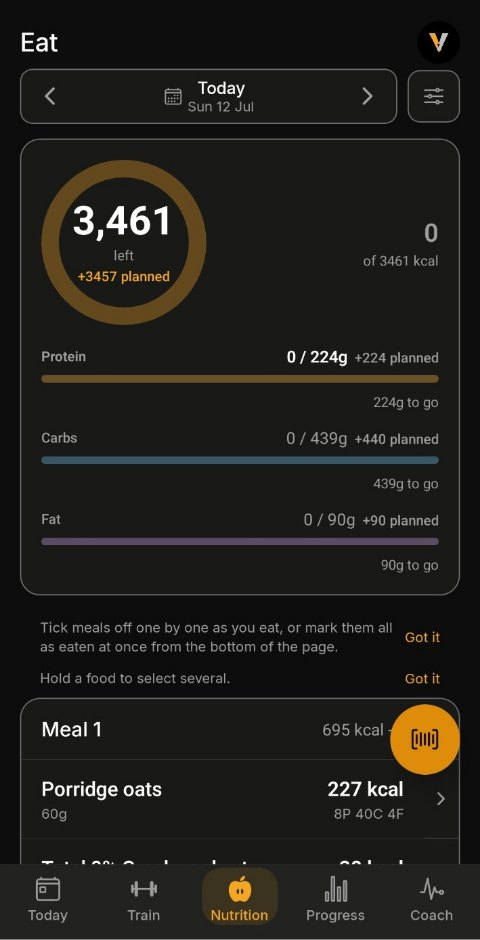
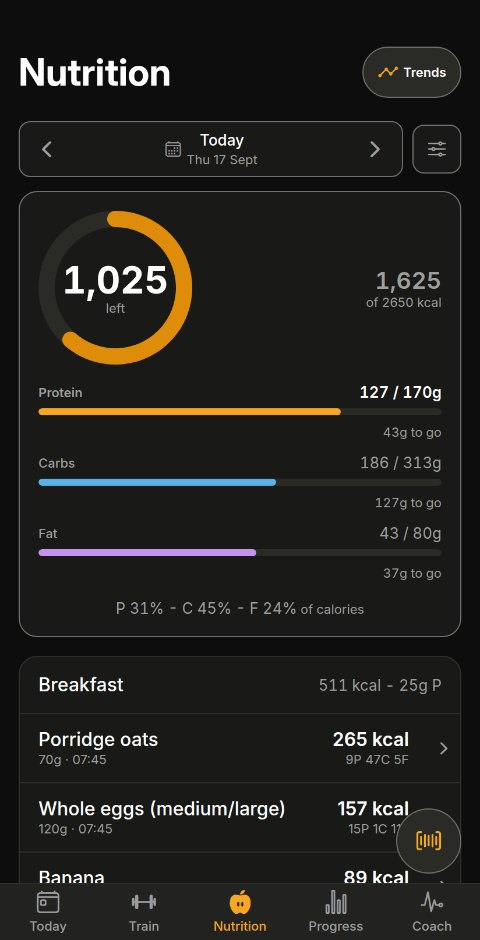
Welcome: render the product captures from the current app
The Welcome screen's three captures were July store screenshots showing
screens the app no longer has (the old workout logger, the Eat tab). The
founder confirmed they were rendered, not taken by hand, so the
paper-render harness now makes them on every run: Today, a set being
logged and Nutrition for the seeded demo persona, one phone screen each
with the real tab bar, on a clean account (the one-time offers dismissed
through the keys their own buttons write), encoded at the assets' size.
Skia paths are now recorded by the harness's mock and drawn as SVG, so
the calorie ring renders as the app draws it, and the seeded meals carry
meal-time timestamps. Register D211.

diff --git a/scripts/paper-render/welcome.js b/scripts/paper-render/welcome.js
@@ -1,0 +1,87 @@
+/**
+ * welcome.js -- the Welcome screen's three product captures (register D145:
+ * Today, a set being logged, the day's nutrition), rendered from the current
+ * app. Founder, 2026-09-26: the captures were rendered by Claude Code, not
+ * taken by hand, so they are regenerated here whenever the app changes.
+ *
+ * paper-render.test.js's Welcome pass writes one phone-sized HTML page per
+ * capture (REPORT.welcome in report-data.json). This step shoots each at 412
+ * CSS pixels wide and twice the density with headless Chromium (as shoot.js
+ * does), scales it to the Welcome assets' own size, and encodes it as JPEG
+ * with CanvasKit (the library the share-card renderer already runs), into
+ * `<out>/welcome/{today,workout,nutrition}.jpg`. It never writes into
+ * assets/: replacing assets/welcome/*.jpg is a reviewed step of its own.
+ *
+ * Plain Node, no Jest; run by run.sh after shoot.js.
+ */
+const fs = require('node:fs');
+const path = require('node:path');
+const { spawnSync } = require('node:child_process');
+
+const REPO_ROOT = path.resolve(__dirname, '..', '..');
+const SCRATCH = process.env.PAPER_RENDER_SCRATCH
+  || '/tmp/claude-0/-home-user-ADPhysique/d71ddd7a-c7b0-5d8f-8ef8-fbac54ce6084/scratchpad';
+const WORK_DIR = path.join(SCRATCH, 'paper-render-work');
+const REPORT_JSON = path.join(WORK_DIR, 'report-data.json');
+const OUT_DIR = path.join(process.env.PAPER_RENDER_OUT_DIR || path.join(SCRATCH, 'paper-renders'), 'welcome');
+const CHROME = process.env.PAPER_RENDER_CHROME
+  || '/opt/pw-browsers/chromium-1194/chrome-linux/chrome';
+
+// The Welcome assets' own size (src/screens/WelcomeScreen.js SHOTS).
+const WIDTH = 480;
+const HEIGHT = 940;
+const JPEG_QUALITY = 86;
+// Headless Chromium leaves the bottom of the window unpainted (about 86 CSS
+// pixels in practice), so the window is shot taller than the phone and the
+// phone's own height is cropped from the top.
+const WINDOW_SLACK_CSS = 200;
+const DEVICE_SCALE = 2;
+
+async function main() {
+  const report = JSON.parse(fs.readFileSync(REPORT_JSON, 'utf8'));
+  const captures = Array.isArray(report.welcome) ? report.welcome : [];
+  if (!captures.length) {
+    console.log('[paper-render:welcome] no Welcome pass in the report; nothing to do');
+    return;
+  }
+  fs.mkdirSync(OUT_DIR, { recursive: true });
+
+  const ckDir = path.dirname(require.resolve('canvaskit-wasm/package.json', { paths: [REPO_ROOT] }));
+  // eslint-disable-next-line global-require, import/no-dynamic-require
+  const CK = await require(path.join(ckDir, 'bin/full/canvaskit.js'))({ locateFile: (f) => path.join(ckDir, 'bin/full', f) });
+
+  for (const capture of captures) {
+    if (!capture.mounted || !capture.htmlPath || !fs.existsSync(capture.htmlPath)) {
+      console.log(`[paper-render:welcome] SKIP ${capture.file}: ${capture.error || 'not mounted'}`);
+      continue;
+    }
+    const png = path.join(OUT_DIR, `${capture.file}-raw.png`);
+    try { fs.unlinkSync(png); } catch (_) { /* none yet */ }
+    const res = spawnSync(CHROME, [
+      '--headless=new', '--no-sandbox', '--disable-gpu', '--hide-scrollbars', '--allow-file-access-from-files',
+      `--force-device-scale-factor=${DEVICE_SCALE}`, `--window-size=412,${capture.cssHeight + WINDOW_SLACK_CSS}`, `--screenshot=${png}`,
+      `file://${capture.htmlPath}`,
+    ], { timeout: 30000, encoding: 'utf8' });
+    if (!fs.existsSync(png)) {
+      console.log(`[paper-render:welcome] FAIL ${capture.file}: chromium exit ${res.status}`);
+      continue;
+    }
+    const image = CK.MakeImageFromEncoded(fs.readFileSync(png));
+    const cropHeight = Math.min(image.height(), capture.cssHeight * DEVICE_SCALE);
+    const surface = CK.MakeSurface(WIDTH, HEIGHT);
+    const paint = new CK.Paint();
+    paint.setAntiAlias(true);
+    surface.getCanvas().drawImageRectOptions(
+      image, CK.XYWHRect(0, 0, image.width(), cropHeight), CK.XYWHRect(0, 0, WIDTH, HEIGHT),
+      CK.FilterMode.Linear, CK.MipmapMode.Linear, paint,
+    );
+    const jpg = surface.makeImageSnapshot().encodeToBytes(CK.ImageFormat.JPEG, JPEG_QUALITY);
+    fs.writeFileSync(path.join(OUT_DIR, `${capture.file}.jpg`), Buffer.from(jpg));
+    console.log(`[paper-render:welcome] OK   ${capture.file}.jpg  (${image.width()}x${cropHeight} -> ${WIDTH}x${HEIGHT}, ${jpg.length} bytes)`);
+  }
+}
+
+main().catch((e) => {
+  console.error('[paper-render:welcome] failed:', e);
+  process.exit(1);
+});

diff --git a/scripts/paper-render/treeToHtml.js b/scripts/paper-render/treeToHtml.js
@@ -403,6 +403,49 @@ function renderSvgNode(node, ctx) {
   return `<${svgTag} ${attrs.join(' ')}>${inner}</${svgTag}>`;
 }
 
+// A react-native-skia Canvas. mockPreamble.js makes each Skia path record the
+// commands the app drew it with, so its Paths draw here as the same shapes in
+// SVG (the calorie ring reads as the ring). A path handed over as a shared
+// value (useDerivedValue) is read through its `.value`.
+function skiaPathData(p) {
+  const path = p && typeof p === 'object' && p.value && typeof p.value.toSVGString === 'function' ? p.value : p;
+  return path && typeof path.toSVGString === 'function' ? path.toSVGString() : '';
+}
+
+function renderSkiaCanvas(node, ctx) {
+  const style = flattenStyle(node.props.style);
+  const w = Number(style.width) || 0;
+  const h = Number(style.height) || 0;
+  const parts = [];
+  const walk = (children) => {
+    const arr = Array.isArray(children) ? children : (children ? [children] : []);
+    for (const c of arr) {
+      if (!c || typeof c !== 'object') continue;
+      if (c.type !== 'Path') {
+        bumpStat(ctx, 'unknownTypes', `Skia:${c.type}`);
+        walk(c.children);
+        continue;
+      }
+      const d = skiaPathData(c.props.path);
+      if (!d) continue;
+      const colour = escapeHtml(c.props.color || '#000000');
+      const attrs = [`d="${escapeHtml(d)}"`];
+      if (c.props.style === 'stroke') {
+        attrs.push('fill="none"', `stroke="${colour}"`, `stroke-width="${Number(c.props.strokeWidth) || 1}"`);
+        if (c.props.strokeCap) attrs.push(`stroke-linecap="${escapeHtml(c.props.strokeCap)}"`);
+        if (c.props.strokeJoin) attrs.push(`stroke-linejoin="${escapeHtml(c.props.strokeJoin)}"`);
+      } else {
+        attrs.push(`fill="${colour}"`);
+      }
+      if (c.props.opacity !== undefined && c.props.opacity !== null) attrs.push(`opacity="${Number(c.props.opacity)}"`);
+      parts.push(`<path ${attrs.join(' ')}/>`);
+    }
+  };
+  walk(node.children);
+  const css = mapContainerCss(style);
+  return `<div style="${cssToString(css)}"><svg xmlns="http://www.w3.org/2000/svg" width="${w}" height="${h}" viewBox="0 0 ${w} ${h}" style="display:block;overflow:visible">${parts.join('')}</svg></div>`;
+}
+
 function renderUnknown(node, ctx) {
   bumpStat(ctx, 'unknownTypes', node.type);
   const style = mapContainerCss(flattenStyle(node.props.style));
@@ -417,6 +460,8 @@ function renderNode(node, ctx, forceInlineText) {
   const { type } = node;
 
   if (HIDDEN_TYPES.has(type)) return '';
+
+  if (type === 'Canvas') return renderSkiaCanvas(node, ctx);
 
   if (isModalLike(node)) {
     if (!node.props.visible) return '';
@@ -579,6 +624,12 @@ function estimateNode(node, availWidth) {
  *   name in FONT_FACES is always registered. Reserved for future faces.
  * @param {string} [opts.repoRoot]
  * @param {number} [opts.foldY] - default 915.
+ * @param {{height:number}} [opts.phone] - lay the page out as one phone
+ *   screen of this CSS height instead of the full scroll: the screen fills
+ *   the height (its own flex does the rest, so a pinned footer sits at the
+ *   bottom and a scroll view clips), anything rendered after it (the tab
+ *   bar) keeps its natural height at the foot, and the fold line is not
+ *   drawn. Used for the Welcome screen's product captures (welcome.js).
  * @returns {{ html: string, stats: { unknownTypes: object, converterFallbacks: object, estimatedHeightPx: number } }}
  */
 function treeToHtml(json, opts) {
@@ -631,7 +682,11 @@ body {
   position: absolute; left: 0; top: ${foldY}px; width: 412px; height: 0;
   border-top: 1px dashed #ff2d55; z-index: 100000; pointer-events: none;
 }
-#pr-fold::after {
+${opts.phone ? `#pr-page { display: flex; flex-direction: column; height: ${Number(opts.phone.height)}px; overflow: hidden; }
+#pr-page > * { flex-shrink: 0; }
+#pr-page > :first-child { flex: 1 1 0%; min-height: 0; overflow: hidden; }
+#pr-fold { display: none; }
+` : ''}#pr-fold::after {
   content: "fold"; position: absolute; right: 4px; top: 2px; font-family: monospace;
   font-size: 10px; color: #ff2d55; background: rgba(0,0,0,0.55); padding: 1px 4px; border-radius: 3px;
 }

diff --git a/scripts/paper-render/paper-render.test.js b/scripts/paper-render/paper-render.test.js
@@ -377,7 +377,7 @@ async function processScreen(config, seed, theme, variant = {}) {
     // eslint-disable-next-line global-require
     const themeMod = require('../../src/styles/theme');
     const bg = theme === 'light' ? themeMod.resolveTheme({ theme: 'light' }).colors.background : themeMod.colors.background;
-    const { html, stats } = treeToHtml(json, { theme, title: label, backgroundColor: bg });
+    const { html, stats } = treeToHtml(json, { theme, title: label, backgroundColor: bg, phone: variant.phone || null });
     mergeConverterStats(stats);
     entry.pageHeightPx = stats.estimatedHeightPx;
 
@@ -455,6 +455,63 @@ test('paper-render the day-zero variant for Home, Analytics, Diary and Plans', a
 
   jest.useRealTimers();
   expect(REPORT.screens.length).toBe(16 + configs.length);
+});
+
+// ── Test 1c: the Welcome screen's product captures (01/02/06) ───────────
+// The first-launch Welcome screen shows three real captures of the app
+// (register D145): Today, a set being logged, the day's nutrition. The
+// founder, 2026-09-26: the captures were rendered by Claude Code, not taken
+// by hand, so they are re-rendered here from the current app whenever it
+// changes. The same persona and dark theme as test 1, laid out as one phone
+// screen (treeToHtml opts.phone) with the real tab bar at its foot, on a
+// clean account: the two one-time offers (the how-you-train offer on Today,
+// the meal-reminder offer on Nutrition) are dismissed through the same
+// storage keys their own "No thanks" and "Not now" buttons write, and the
+// keys are removed again afterwards so the light pass below renders exactly
+// as before. The entries go to REPORT.welcome, not REPORT.screens, so the
+// contact sheet and its counts are unchanged; welcome.js shoots them.
+const WELCOME_CAPTURES = [
+  { n: '01', file: 'today' },
+  { n: '02', file: 'workout' },
+  { n: '06', file: 'nutrition' },
+];
+// 480 x 940, the Welcome assets' own size, at 412 CSS pixels wide.
+const WELCOME_PHONE_HEIGHT = Math.round(412 * (940 / 480));
+
+test('paper-render the Welcome captures (Today, a set being logged, Nutrition)', async () => {
+  const seed = global.__PAPER_RENDER_SEED__;
+  expect(seed).toBeTruthy();
+
+  jest.useFakeTimers({
+    now: NOW_MS,
+    doNotFake: ['setTimeout', 'clearTimeout', 'setInterval', 'clearInterval', 'setImmediate', 'clearImmediate', 'queueMicrotask', 'nextTick', 'hrtime', 'performance'],
+  });
+
+  const AsyncStorage = require('@react-native-async-storage/async-storage').default;
+  const { MEAL_REMINDER_OFFER_DISMISSED_KEY_FOR } = require('../../src/lib/food/mealReminderOffer');
+  const dismissed = [`@volyume_hyt_offer_${seed.userId}`, MEAL_REMINDER_OFFER_DISMISSED_KEY_FOR(seed.userId)];
+  for (const key of dismissed) {
+    // eslint-disable-next-line no-await-in-loop
+    await AsyncStorage.setItem(key, 'true');
+  }
+
+  REPORT.welcome = [];
+  try {
+    const configs = screenConfigs(seed);
+    for (const capture of WELCOME_CAPTURES) {
+      const config = configs.find((c) => c.n === capture.n);
+      // eslint-disable-next-line no-await-in-loop
+      const entry = await processScreen(config, seed, 'dark', { suffix: '-welcome', phone: { height: WELCOME_PHONE_HEIGHT } });
+      REPORT.welcome.push({ ...entry, file: capture.file, cssHeight: WELCOME_PHONE_HEIGHT });
+    }
+  } finally {
+    for (const key of dismissed) {
+      // eslint-disable-next-line no-await-in-loop
+      await AsyncStorage.removeItem(key);
+    }
+    jest.useRealTimers();
+  }
+  expect(REPORT.welcome.every((e) => e.mounted)).toBe(true);
 });
 
 // ── Test 2: light theme (01/04/06), with the resetModules reload ─────────

diff --git a/scripts/paper-render/seedPersona.js b/scripts/paper-render/seedPersona.js
@@ -264,14 +264,20 @@ async function seedPersona() {
   //    2,650 kcal target (logFoodEntry; curated: refs resolve to a real
   //    named food + macros with no DB food-table seed required).
   const todayKey = dayKey.localDayKey(NOW_MS);
+  // Each meal is logged at its own time of day (logFoodEntry stamps the
+  // entry from the clock, so the fake clock moves for each meal and returns
+  // to NOW_MS after), so the diary reads like a real day rather than every
+  // item at the seed's evening "now".
   const meals = [
-    { mealSlot: 'breakfast', items: [['oats', 70], ['eggs', 120], ['banana', 100]] },
-    { mealSlot: 'lunch', items: [['chicken_breast', 160], ['white_rice', 180], ['mixed_veg', 150]] },
-    { mealSlot: 'dinner', items: [['salmon', 150], ['sweet_potato', 180], ['broccoli', 130]] },
+    { mealSlot: 'breakfast', hh: 7, mm: 45, items: [['oats', 70], ['eggs', 120], ['banana', 100]] },
+    { mealSlot: 'lunch', hh: 12, mm: 50, items: [['chicken_breast', 160], ['white_rice', 180], ['mixed_veg', 150]] },
+    { mealSlot: 'dinner', hh: 18, mm: 55, items: [['salmon', 150], ['sweet_potato', 180], ['broccoli', 130]] },
   ];
   const { CURATED_FOODS } = require('../../src/lib/food/curatedFoods');
   let diaryTotalKcal = 0;
+  const today = new Date(NOW_MS);
   for (const meal of meals) {
+    jest.setSystemTime(at(today.getFullYear(), today.getMonth(), today.getDate(), meal.hh, meal.mm));
     for (const [key, grams] of meal.items) {
       const food100 = CURATED_FOODS[key];
       if (!food100) { report.notes.push(`Curated food key "${key}" missing; a diary item was skipped.`); continue; }
@@ -292,6 +298,7 @@ async function seedPersona() {
       });
     }
   }
+  jest.setSystemTime(NOW_MS);
   report.notes.push(`Diary seeded: ${diaryTotalKcal} kcal across 3 curated-food meals (target 2,650 kcal).`);
 
   // 8. Weekly check-in completed last Sunday, plus a coach decision for

diff --git a/scripts/paper-render/mockPreamble.js b/scripts/paper-render/mockPreamble.js
@@ -256,10 +256,25 @@ jest.mock('@sentry/react-native', () => ({
   withScope: jest.fn(cb => cb({ setTag: () => {}, setContext: () => {}, setUser: () => {} })),
 }));
 
-jest.mock('@shopify/react-native-skia', () => ({
-  Canvas: 'Canvas', Path: 'Path', Skia: { Path: { Make: () => ({ moveTo: () => {}, lineTo: () => {}, close: () => {} }) } },
-  useFont: () => null, useImage: () => null,
-}));
+// A Skia path records the commands the app draws it with (moveTo, lineTo,
+// close: all MacroRings' calorie ring uses), so treeToHtml.js draws the
+// app's own geometry as SVG instead of an unknown-type box.
+jest.mock('@shopify/react-native-skia', () => {
+  const makePath = () => {
+    const cmds = [];
+    const path = {
+      moveTo: (x, y) => { cmds.push(`M${x} ${y}`); return path; },
+      lineTo: (x, y) => { cmds.push(`L${x} ${y}`); return path; },
+      close: () => { cmds.push('Z'); return path; },
+      toSVGString: () => cmds.join(' '),
+    };
+    return path;
+  };
+  return {
+    Canvas: 'Canvas', Path: 'Path', Skia: { Path: { Make: makePath } },
+    useFont: () => null, useImage: () => null,
+  };
+});
 
 jest.mock('react-native-svg', () => {
   const React = require('react');

diff --git a/docs/TASKBOARD.md b/docs/TASKBOARD.md
@@ -67,6 +67,8 @@ campaign entries this section carried were retired to the archive
 
 **RECOVERY LEARNS EACH PERSON'S RECOVERY, founder question 2026-09-26 ("We had recovery intelligence that learns people's recovery and adjusts as it goes along based on performance from a start. Is that what you've used for the recovery section or have you used rudimentary numbers?") — BUILT ON THE BRANCH `04c92d66`, IN ADVERSARIAL REVIEW** (lead, hands-on; register D210, spec `docs/recovery-programme-2026-09-25/00-SPEC.md` section 14): answered in chat with evidence (the estimate used fixed research baselines; the app's learners moved only set counts). Now a per-muscle factor starts at the recovery answer's and is fitted to how the athlete's lifts went when a muscle was trained again, checked on the change the estimate predicts between two sessions trained to the same RIR target; recovery weeks, circuits, injury limits and mixed results never teach; pure, replayed from 126 days of sessions, bounded, three checks minimum; each muscle's breakdown says how it was adjusted. Recovery tests 192 of 192 and the UI suites green; lint and typecheck clean. An Opus fresh-eyes adversarial review is RUNNING (read-only; recovery path: if it dies, relaunch with the same brief against `04c92d66`). Lands on main after its findings are dealt with and the full gate.
 
+**WELCOME CAPTURES RENDERED FROM THE CURRENT APP, founder 2026-09-26 ("I did not create the screenshots. Claudecode rendereed then itself") — DONE ON THE BRANCH** (lead, hands-on; register D211): the paper-render harness gained a Welcome pass (phone-height layout with the real tab bar, clean account state through the offers' own dismissal keys), real Skia rings (recorded paths drawn as SVG) and meal-time food logs; `welcome.js` shoots and encodes the three captures at 480 x 940; `assets/welcome/` replaced. Store listing screenshots stay founder-side (console uploads); the harness can render a store set on request.
+
 **NUTRITION HEADER GAP, founder device report 2026-09-26 ("The Nutrition and Trends button is almost touching the content below") — FIXED ON MAIN `67191120`** (lead, hands-on; gate over the commit in an isolated worktree `lint clean, tsc clean, check:imports OK over 2091 files, jest 1377 suites passed and 1 skipped, 21585 tests passed and 16 skipped, none failed`): Nutrition was the only tab root with no gap under ScreenHeader (its blocks use margins, not a content gap); the day pager now carries the spacing.lg the other tabs put there, and `tabHeaderGap.guard.test.js` pins it against Today, Train and Coach. Files: `src/screens/DiaryScreen.js` and the guard.
 
 **COACHING DECISION SCREEN, founder order 2026-09-26 ("a mismatch of texts styles and formats. Sort it") — LANDED ON MAIN `16fd55a9`** (Sonnet build lane against the lead's design, lead-reviewed with two corrections, fresh-eyes review; register D206; gate over the settled tree `lint clean, tsc clean, check:imports OK over 2086 files, jest 1372 suites passed and 1 skipped, 21548 tests passed and 16 skipped, none failed`): one heading treatment (SectionLabel, default tone), one card (the Card primitive, the hold hero elevated, the focus card plain, the hero verdict keeping its accent border), one amber (the committing action is emphatic; every quiet action secondary; a two-button footer with air between), type from roles (the week title h2 in the text colour), identical stat chips, the story card on body and bodySm, blocks on one section gap; engine copy and the ED-safety blocks untouched. Files: `src/screens/CoachOutputScreen.js`, `src/components/coachOutput/CoachOutputCards.js`, four re-anchored guards. Review fixes landed `182e976e` (the next-check-in card in the radius census; the adjustment rows' icon backing neutral). Founder's second and third corrections the same day ("It's the worst screen in the entire app by miles! Look at what is in use elsewhere ... Redesign it in line with the rest of the app"; answers: bump to 2.3.0, cut the duplicate, fix the other ghost buttons): REDESIGNED by the lead's hand and landed `f16da7c4` (register D206, the redesign addendum): one source per fact, Today's hero shape for the decision, the Coach tab's sections, the check-in's data rows, SettingRows for places to go, the retired narrators gone, the ghost buttons fixed app-wide with a guard; version 2.3.0 `28158f75`; gate `lint clean, tsc clean, check:imports OK over 2090 files, jest 1376 suites passed and 1 skipped, 21581 tests passed and 16 skipped, none failed`. Preview https://claude.ai/artifact/Sjq98WMVwpBirMkNYYaqgp. Noted: `buildOffItems` and `buildFocus` have no screen caller now.

diff --git a/docs/ux-world-class-audit-2026-07-09/DECISIONS-2026-07-09.md b/docs/ux-world-class-audit-2026-07-09/DECISIONS-2026-07-09.md
@@ -10575,3 +10575,35 @@ best-effort), `src/lib/algorithms.js` (`E1RM_PROGRESS_MARGIN` exported),
 `load.test.js` (the window, the deload flag, the learned factor end to end,
 a failed injury-limit read never degrades), `MuscleRecoveryList.test.js`,
 `ReadinessCards.recoveryByMuscle.test.js`.
+
+## D211 — The Welcome screen's captures are rendered from the current app (founder, 2026-09-26; lead ruling under D33)
+
+Founder, verbatim, on the Welcome screen's product captures (the July store
+screenshots resized in by D145, which showed an old workout screen, the
+"Eat" tab and the old header): "I did not create the screenshots.
+Claudecode rendereed then itself." With the delegation of the same day
+("Make the decisions that bring the absolute best product for end users ...
+I do not need to make these decisions").
+
+**Ruling.** The three captures (Today, a set being logged, the day's
+nutrition) are rendered from the current app by the in-repo paper-render
+harness, not taken by hand, and refreshed whenever those screens change.
+`scripts/paper-render/run.sh` now makes them on every run (README section
+"The Welcome screen's captures"): the seeded demo persona "Alex", dark
+theme, one phone screen each with the real tab bar at the foot, on a clean
+account (the how-you-train offer and the meal-reminder offer dismissed
+through the storage keys their own buttons write), shot by headless
+Chromium and encoded at the assets' own 480 x 940. Two harness fixes made
+them true to a phone: Skia paths are recorded by the mock and drawn as SVG,
+so the calorie ring is the app's own geometry (it was an unknown-type box);
+the seeded meals are logged at breakfast, lunch and dinner times (every
+item read 21:40). `assets/welcome/{today,workout,nutrition}.jpg` replaced.
+
+**Rejected.** Hiding the one-time offers with CSS (the render would stop
+being the app's own output; the storage keys are the real dismissed state);
+hand-drawn mock-ups (D145's rule: real captures); keeping the July images
+(they show screens the app no longer has).
+
+**Open, founder-side.** The Play and App Store listing screenshots are
+separate uploads in the consoles and still show the July screens; the same
+harness can render a full store set on request.

diff --git a/scripts/paper-render/README.md b/scripts/paper-render/README.md
@@ -36,6 +36,32 @@ default). Override the Chromium binary with `PAPER_RENDER_CHROME` and the
 output directory with `PAPER_RENDER_OUT_DIR` if ever needed; neither has to
 be set normally.
 
+## The Welcome screen's captures
+
+The first-launch Welcome screen shows three real captures of the app (register
+D145): Today, a set being logged, the day's nutrition. The founder,
+2026-09-26: the captures were rendered by Claude Code, not taken by hand, so
+they are rendered here from the current app and refreshed whenever those
+screens change (register D211).
+
+`run.sh` makes them on every run: `paper-render.test.js`'s Welcome pass
+mounts Today, the active workout and Nutrition for the same "Alex" persona as
+one phone screen each (`treeToHtml` `opts.phone`: the screen fills the
+height, the real `VolyumeTabBar` sits at its foot, the fold line is not
+drawn), on a clean account (the how-you-train offer and the meal-reminder
+offer dismissed through the storage keys their own buttons write, removed
+again after the pass); `welcome.js` shoots each at 412 CSS pixels and twice
+the density, crops the phone height (headless Chromium leaves the bottom of
+its window unpainted, so the window is shot taller), scales to the assets'
+480 x 940 and encodes JPEG with CanvasKit, into
+`<out>/welcome/{today,workout,nutrition}.jpg`. It never writes into
+`assets/`: copy the three files over `assets/welcome/` after looking at them.
+
+Skia drawing (the calorie ring) renders for real: the Skia mock in
+`mockPreamble.js` records each path's `moveTo`/`lineTo`/`close`, and
+`treeToHtml.js` draws a `Canvas`'s `Path`s as SVG from those commands, so
+the ring is the app's own geometry, not an unknown-type box.
+
 ## How it works
 
 Two stages, run in sequence by `run.sh`:
